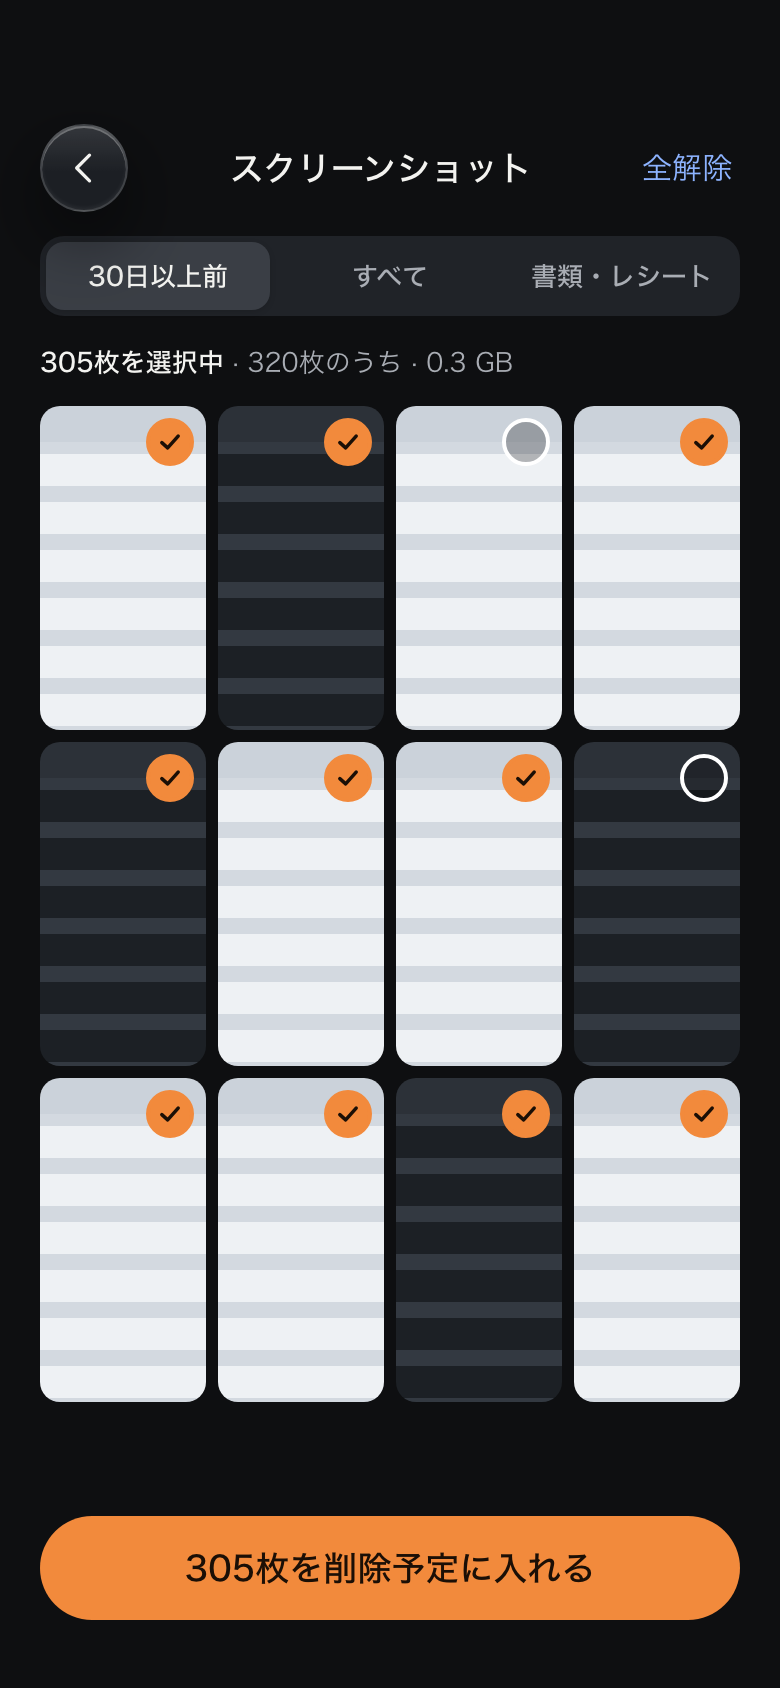
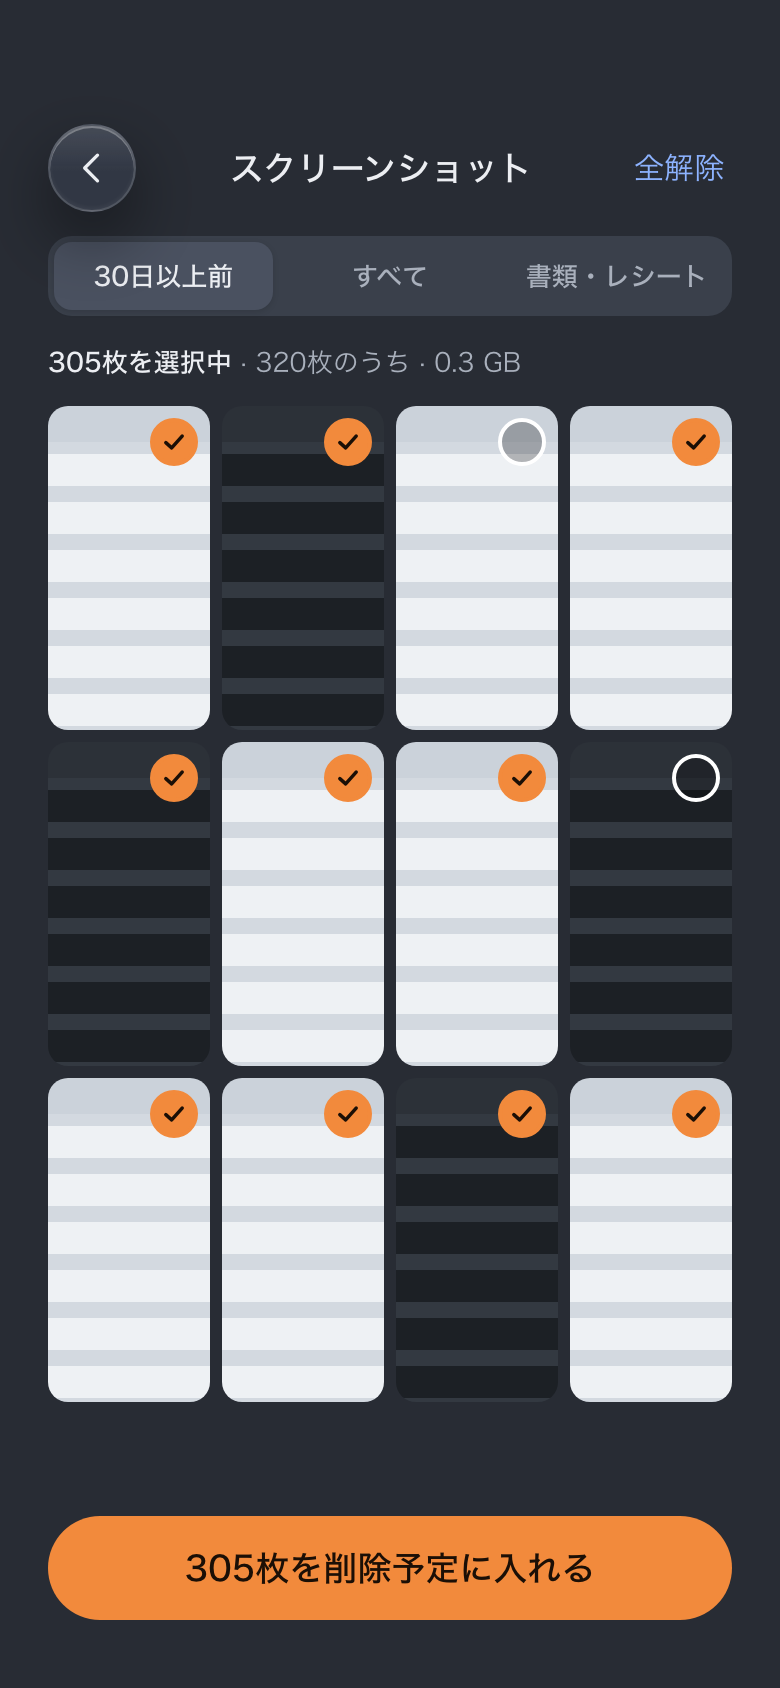
docs: soften dark theme to Atom One Dark-like gray and widen side margins
- Dark tokens: bg #282C34, lifted surfaces; chart blue #4F8AF7 to keep 3:1 on cards
- Screen side margins 20pt → 24pt, aligned with the floating tab bar
- Design canvas now shows dark and light rows together on one page

diff --git a/docs/design/mockups/common.css b/docs/design/mockups/common.css
@@ -3,27 +3,28 @@
    角丸: 入れ子の要素は「内側の角丸 = 外側の角丸 − 余白」で揃える */
 
 .screen {
-  --bg: #0E0F11;
-  --surface: #17191C;
-  --surface-2: #202328;
-  --line: #2B2F35;
-  --text: #F3F3F0;
-  --text-2: #A9ADB4;
+  /* ダーク: Atom One Dark 寄りの濃いグレー */
+  --bg: #282C34;
+  --surface: #30353F;
+  --surface-2: #3A404B;
+  --line: #3E4451;
+  --text: #ECEEF2;
+  --text-2: #A9B0BC;
   --keep: #2F6FEB;
   --on-keep: #FFFFFF;
   --keep-text: #8DB3FF;
   --delete: #F28A3C;
   --delete-ink: #1B0F06;
   --delete-text: #F28A3C;
-  --seg-on: #3A3E45;
+  --seg-on: #4A5160;
   --chip: rgba(255, 255, 255, 0.1);
-  --chart: #2F6FEB;
-  --chart-2: #8DB3FF;
+  --chart: #4F8AF7;
+  --chart-2: #9DBBF5;
   --grid: rgba(255, 255, 255, 0.08);
-  --glass-fill: rgba(44, 47, 53, 0.5);
+  --glass-fill: rgba(58, 63, 74, 0.55);
   --glass-edge: rgba(255, 255, 255, 0.16);
   --glass-highlight: rgba(255, 255, 255, 0.3);
-  --glass-shadow: 0 14px 34px rgba(0, 0, 0, 0.5);
+  --glass-shadow: 0 14px 34px rgba(0, 0, 0, 0.45);
   --glass-selected: rgba(255, 255, 255, 0.14);
 }
 
@@ -56,7 +57,7 @@
 
 body {
   margin: 0;
-  background: #0E0F11;
+  background: #282C34;
   font-family: -apple-system, "SF Pro Text", "Hiragino Sans", "Hiragino Kaku Gothic ProN", system-ui, sans-serif;
   -webkit-font-smoothing: antialiased;
 }
@@ -70,7 +71,7 @@ body {
   color: var(--text);
   display: flex;
   flex-direction: column;
-  padding: 62px 20px 0;
+  padding: 62px 24px 0;
 }
 
 /* テキスト */

diff --git a/docs/design/mockups/screens/10-history.html b/docs/design/mockups/screens/10-history.html
@@ -23,7 +23,7 @@
         <button type="button" aria-pressed="false" style="height: 28px; border-radius: 7px; font-size: 12px">1年</button>
       </div>
     </div>
-    <svg viewBox="0 0 318 168" width="318" height="168" role="img" aria-label="4月 3.1GB、5月 1.2GB、6月 0.8GB、7月 2.4GB、8月 1.9GB、9月 3.2GB" style="font-family: inherit">
+    <svg viewBox="0 0 318 168" role="img" aria-label="4月 3.1GB、5月 1.2GB、6月 0.8GB、7月 2.4GB、8月 1.9GB、9月 3.2GB" style="display: block; width: 100%; height: auto; font-family: inherit">
       <g style="stroke: var(--grid)" stroke-width="1">
         <line x1="30" y1="14" x2="318" y2="14"/>
         <line x1="30" y1="45.5" x2="318" y2="45.5"/>

diff --git a/docs/design/mockups/screens/08-tray.html b/docs/design/mockups/screens/08-tray.html
@@ -54,7 +54,7 @@
 
   <p class="caption" style="margin-top: 18px">写真をタップすると削除予定から外せます。削除した写真は「最近削除した項目」に30日間残り、iCloud写真ではほかのデバイスからも消えます。</p>
 
-  <div style="position: absolute; left: 20px; right: 20px; bottom: 104px">
+  <div style="position: absolute; left: 24px; right: 24px; bottom: 104px">
     <button class="btn btn-delete num" type="button"><svg class="i" viewBox="0 0 24 24"><path d="M4 7h16"/><path d="M10 11v6M14 11v6"/><path d="M6 7l1 13h10l1-13"/><path d="M9 7V4h6v3"/></svg>348枚を削除</button>
   </div>
 

diff --git a/scripts/build_mockups.py b/scripts/build_mockups.py
@@ -100,34 +100,31 @@ def write_canvas(canvas_dir: Path) -> None:
     project.mkdir(parents=True, exist_ok=True)
     css = (MOCKUPS / "common.css").read_text(encoding="utf-8")
     boards, order, notes = {}, [], {}
-    for theme, theme_label in THEMES:
-        y = 0
-        for row_index, (row_title, stems) in enumerate(ROWS):
-            notes[f"{theme}-row{row_index + 1}"] = {
-                "x": 0,
-                "y": y - 300,
-                "text": f"{row_title}（{theme_label}）",
-                "kind": "title1",
-                "maxW": len(stems) * WIDTH + (len(stems) - 1) * 80,
-                "page": theme,
-            }
+    y = 0
+    for row_index, (row_title, stems) in enumerate(ROWS):
+        notes[f"row{row_index + 1}"] = {
+            "x": 0,
+            "y": y - 300,
+            "text": row_title,
+            "kind": "title1",
+            "maxW": len(stems) * WIDTH + (len(stems) - 1) * 80,
+        }
+        for theme, theme_label in THEMES:
             for col, stem in enumerate(stems):
                 src = SCREENS / f"{stem}.html"
                 name = canvas_name(stem, theme)
                 (project / name).write_text(to_dc_html(src, css, theme), encoding="utf-8")
                 title = re.search(r"<title>(.*?)</title>", src.read_text(encoding="utf-8")).group(1)
-                boards[name] = {
-                    "x": col * (WIDTH + 80), "y": y, "w": WIDTH, "h": HEIGHT,
-                    "title": f"{title}（{theme_label}）", "page": theme,
-                }
+                boards[name] = {"x": col * (WIDTH + 80), "y": y, "w": WIDTH, "h": HEIGHT, "title": f"{title}（{theme_label}）"}
                 order.append(name)
-            y += HEIGHT + 400
+            y += HEIGHT + 120
+        y += 280
     index = {
         "v": 3,
         "createdOnFiles": {"v": 1, "at": datetime.datetime.now(datetime.timezone.utc).strftime("%Y-%m-%dT%H:%M:%SZ")},
         "title": "SimilarPhotoCleaner UIデザイン",
-        "launch": {"view": "canvas", "page": "dark"},
-        "pages": [{"id": theme, "name": label} for theme, label in THEMES],
+        "launch": {"view": "canvas"},
+        "pages": [],
         "boards": boards,
         "order": order,
         "notes": notes,

diff --git a/docs/UI_DESIGN.md b/docs/UI_DESIGN.md
@@ -7,6 +7,7 @@
 **写真が主役の落ち着いた画面に、「残す＝青」「削除＝オレンジ」の2色だけを使う。** 暗室で現像した写真を選ぶ感覚で、余計な装飾を置かずに写真の差に目が向くようにする。
 
 - ライトモードとダークモードの両方に対応する。設定の「外観」で自動／ライト／ダークを選べ、既定は端末の設定に従う「自動」
+- ダークの背景は真っ黒ではなく、Atom One Dark 寄りの濃いグレー（`#282C34`）。カードはそれより一段明るいグレーで重ねる
 - 色の役割は2つに限定する。青は「残す・ベスト・主要な操作」、オレンジは「削除・削除予定」。青とオレンジは明るさも違うので、色覚の違いがあっても見分けられる
 - 書体は iOS 標準の SF Pro（日本語はヒラギノ角ゴシック）。数字は等幅数字で桁を揃える
 - タブバーと丸いナビゲーションボタンは iOS 26 の Liquid Glass に合わせたガラス表現。下にある内容がぼけて透ける
@@ -158,17 +159,18 @@
 
 | トークン | ダーク | ライト | 用途 |
 | --- | --- | --- | --- |
-| `bg` | `#0E0F11` | `#F4F4F1` | 画面の背景 |
-| `surface` | `#17191C` | `#FFFFFF` | カード・リスト |
-| `surface-2` | `#202328` | `#E8E8E4` | 控えめなボタン・セグメント・棒の下地 |
-| `line` | `#2B2F35` | `#DEDED9` | 区切り線 |
-| `text` | `#F3F3F0` | `#131416` | 本文 |
-| `text-2` | `#A9ADB4` | `#5C616A` | 補足・キャプション |
-| `keep` | `#2F6FEB` | `#2463E0` | 残す・ベスト・主要ボタン（白文字）・グラフの棒 |
+| `bg` | `#282C34` | `#F4F4F1` | 画面の背景 |
+| `surface` | `#30353F` | `#FFFFFF` | カード・リスト |
+| `surface-2` | `#3A404B` | `#E8E8E4` | 控えめなボタン・セグメント・棒の下地 |
+| `line` | `#3E4451` | `#DEDED9` | 区切り線 |
+| `text` | `#ECEEF2` | `#131416` | 本文 |
+| `text-2` | `#A9B0BC` | `#5C616A` | 補足・キャプション |
+| `keep` | `#2F6FEB` | `#2463E0` | 残す・ベスト・主要ボタン（白文字） |
+| `chart` | `#4F8AF7` | `#2463E0` | グラフの棒（ダークはカードの上で 3:1 を確保するため明るめ） |
 | `keep-text` | `#8DB3FF` | `#1F5AD0` | 背景上の青い文字・アイコン・選択中のタブ |
 | `delete` | `#F28A3C` | `#F28A3C` | 削除・削除予定の塗り（黒文字 `#1B0F06`） |
 | `delete-text` | `#F28A3C` | `#B4540D` | 背景上のオレンジの文字（−42 MB など） |
-| `glass-fill` | `rgba(44,47,53,.5)` | `rgba(255,255,255,.52)` | ガラスの面（背景ぼかし 22pt・彩度 180%） |
+| `glass-fill` | `rgba(58,63,74,.55)` | `rgba(255,255,255,.52)` | ガラスの面（背景ぼかし 22pt・彩度 180%） |
 
 | 要素 | サイズ |
 | --- | --- |
@@ -179,15 +181,15 @@
 | ボタンの高さ | 52pt（角丸は高さの半分） |
 | タップ領域 | 最小 44pt |
 | カードの角丸 | 22pt（内側は上の「角丸は外側と揃える」に従う） |
-| 画面の左右余白 | 20pt |
+| 画面の左右余白 | 24pt（フローティングのタブバーの左右 24pt と揃える） |
 
 SwiftUI では、色を Asset Catalog の Color Set（Any / Dark の2値）として定義し、ガラスは iOS 26 の `glassEffect` を使う想定。
 
 ## アクセシビリティ
 
-- 文字と背景のコントラストは両テーマで 4.5:1 以上（例: キャプションはダークで約8:1、ライトで約5.8:1）
-- 青いボタンの白文字は約4.6:1（ダーク）／約5.3:1（ライト）、オレンジの塗りの黒文字は約7.5:1
-- グラフの青は、両テーマの背景に対して 3:1 以上（dataviz の検証スクリプトで確認済み）
+- 文字と背景のコントラストは両テーマで 4.5:1 以上（例: キャプションはダークの背景で約6.4:1・カード上で約5.6:1、ライトで約5.8:1）
+- 青いボタンの白文字は約4.6:1（ダーク）／約5.3:1（ライト）、オレンジの塗りの黒文字は約7.5:1、ダークのカード上のオレンジ文字は約5.0:1
+- グラフの青は、両テーマのカードに対して 3:1 以上（dataviz の検証スクリプトで確認済み。ダークでボタンと同じ `#2F6FEB` を使うと 2.7:1 で不足するため `#4F8AF7` を使う）
 - 残す／削除は色だけでなく、文字（「残す」「削除」）とアイコン（チェック／バツ）でも区別する
 - スワイプ操作には必ず同じ働きのボタンを用意し、VoiceOver ではカスタムアクションで操作できるようにする
 - グラフには月ごとの値を読み上げるラベルを付ける
